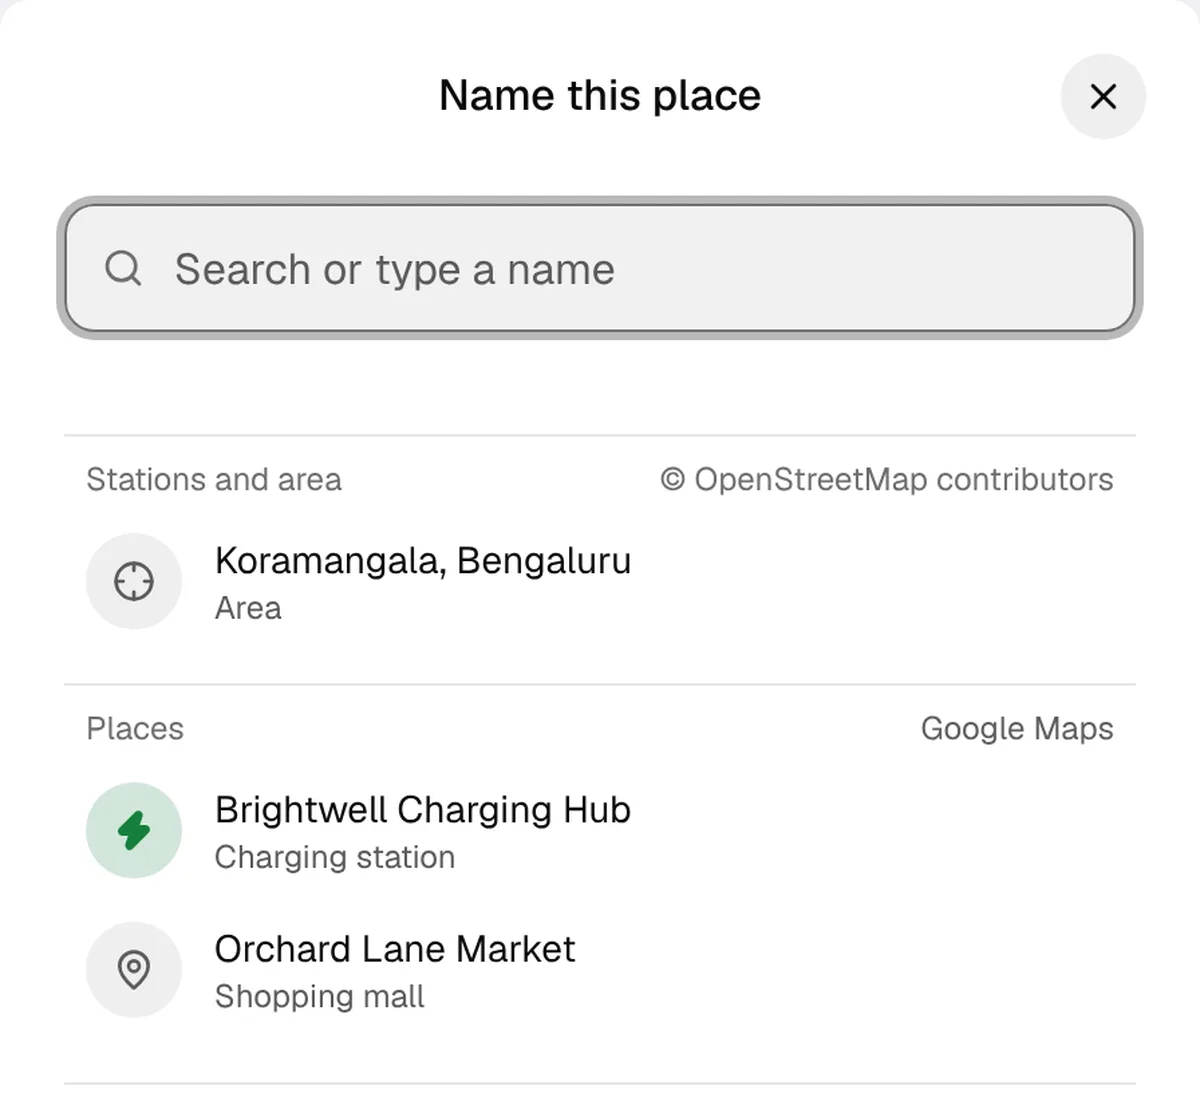
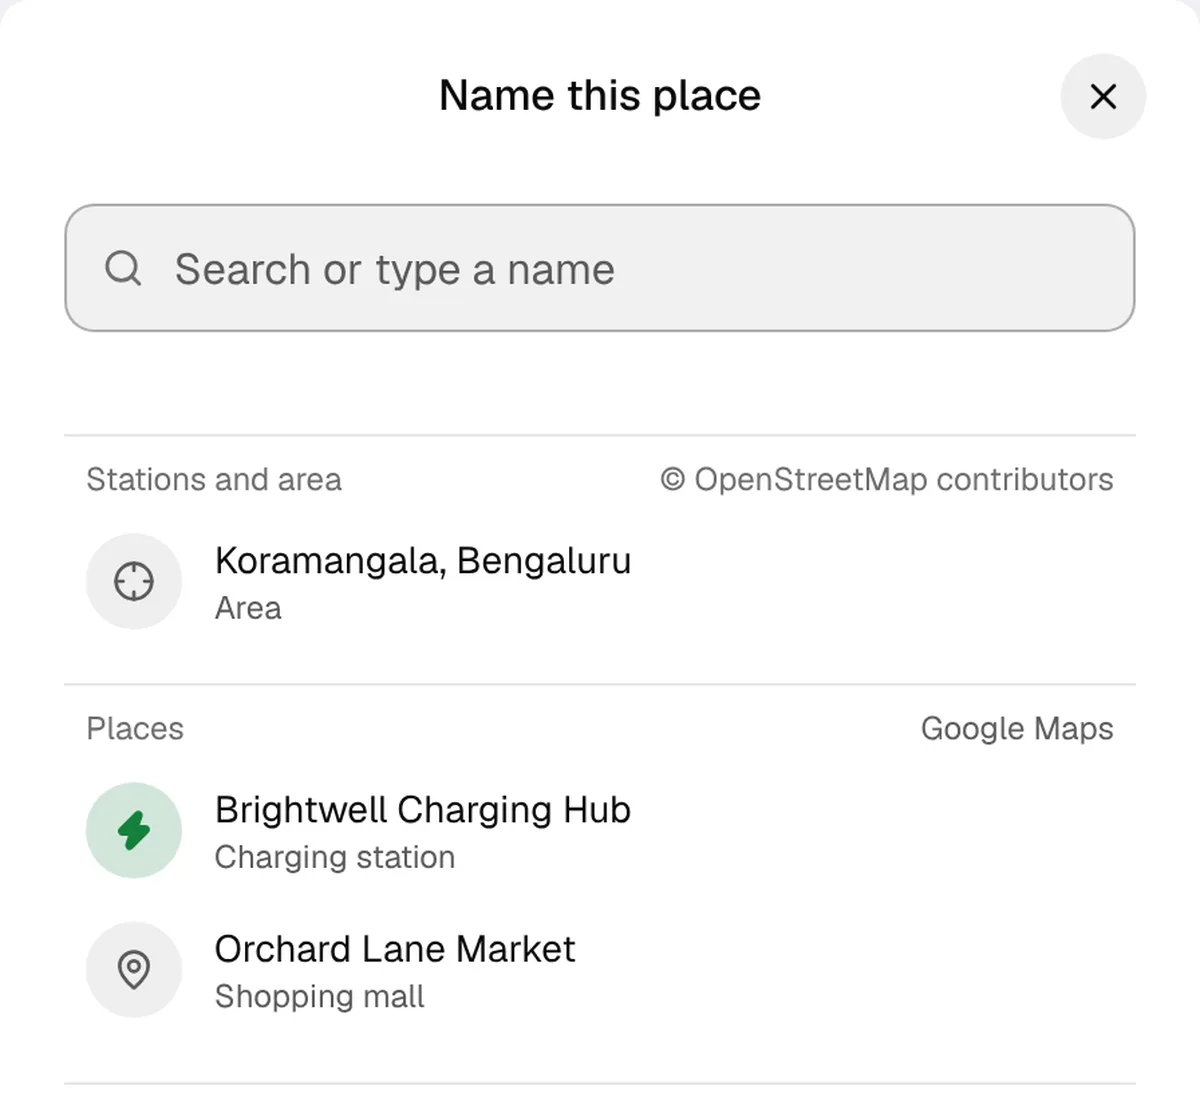
Name this place: fixes from code review
- One CHARGING_DETAIL constant for the "Charging station" detail, written by
  parseNearby, the OpenStreetMap stations and the demo, and read by
  placeIcon, so a reworded detail can't quietly drop the bolt.
- Option.icon is null for the typed name instead of a "typed" value that
  repeated kind.
- What's new: a shorter title, "Icons when naming a place", and a
  screenshot without the focus ring.

Claude-Session: https://claude.ai/code/session_01Y6B7tRxudNmpPkZpFcx5eM

Changed region(s): [[0.0308, 0.1533, 0.9558, 0.3066]]

diff --git a/components/name-place.tsx b/components/name-place.tsx
@@ -19,12 +19,13 @@ import { haptic } from "@/components/haptic";
 const DEBOUNCE_MS = 300;
 const MAX_GOOGLE = 8;
 
-type Option = { key: string; kind: "typed" | "osm" | "google"; name: string; detail: string | null; icon: PlaceIcon | "typed"; placeId?: string };
+type Option = { key: string; kind: "typed" | "osm" | "google"; name: string; detail: string | null; icon: PlaceIcon | null; placeId?: string };
 
 // The round icon at the start of each choice, so a charger, the area and a typed name tell apart at a glance:
 // the bolt on green for a charger, a target for the area, a pencil for the typed name, a pin for the rest.
-function OptionIcon({ icon }: { icon: Option["icon"] }) {
-  const Icon = { charging: Zap, area: Crosshair, place: MapPin, typed: Pencil }[icon];
+// `icon` null is the typed name.
+function OptionIcon({ icon }: { icon: PlaceIcon | null }) {
+  const Icon = icon ? { charging: Zap, area: Crosshair, place: MapPin }[icon] : Pencil;
   return (
     <span aria-hidden="true" className={cn("flex size-9 shrink-0 items-center justify-center rounded-full", icon === "charging" ? "bg-charge/20 text-positive" : "bg-foreground/[0.07] text-muted-foreground dark:bg-white/10")}>
       <Icon className={cn("size-4", icon === "charging" && "fill-current")} />
@@ -123,7 +124,7 @@ export function NamePlace({ target, compact = false, className }: { target: Name
     seen.add(s.placeId);
     google.push({ key: `google:${s.placeId}`, kind: "google", name: s.name, detail: s.detail, icon: placeIcon(s), placeId: s.placeId });
   }
-  const typed: Option[] = q !== "" && !osm.some((o) => o.name.toLowerCase() === q.toLowerCase()) ? [{ key: "typed", kind: "typed", name: q, detail: null, icon: "typed" }] : [];
+  const typed: Option[] = q !== "" && !osm.some((o) => o.name.toLowerCase() === q.toLowerCase()) ? [{ key: "typed", kind: "typed", name: q, detail: null, icon: null }] : [];
   const options = [...typed, ...osm, ...google];
   const searching = searchable && remote?.q !== q;
   const unavailable = searchable && remote?.q === q && remote.unavailable;

diff --git a/lib/server/place-suggestions.ts b/lib/server/place-suggestions.ts
@@ -1,7 +1,7 @@
 import "server-only";
 import type { GoogleSku } from "@/lib/costs";
 import { DEMO } from "@/lib/demo";
-import { matches, mergeSuggestions, parseAutocomplete, parseNearby, type Suggestion } from "@/lib/place-suggestions";
+import { CHARGING_DETAIL, matches, mergeSuggestions, parseAutocomplete, parseNearby, type Suggestion } from "@/lib/place-suggestions";
 import { stationsNear } from "@/lib/stations";
 import type { LatLng } from "@/lib/user-places";
 import { countGoogleCall } from "./data/system";
@@ -50,7 +50,7 @@ async function nearby(key: string, p: LatLng): Promise<Suggestion[]> {
 
 // Demo places: made up, with the demo's place IDs (DEMO_GOOGLE_NAMES), and no call leaves the server.
 const DEMO_HINTS: Suggestion[] = [
-  { name: "Brightwell Charging Hub", detail: "Charging station", source: "google", placeId: "DemoPlace_Brightwell01" },
+  { name: "Brightwell Charging Hub", detail: CHARGING_DETAIL, source: "google", placeId: "DemoPlace_Brightwell01" },
   { name: "Orchard Lane Market", detail: "Shopping mall", source: "google", placeId: "DemoPlace_OrchardLane01" },
 ];
 const DEMO_SEARCH: Suggestion[] = [
@@ -61,7 +61,7 @@ const DEMO_SEARCH: Suggestion[] = [
 ];
 
 export async function suggestionsAt(p: LatLng): Promise<{ hints: Suggestion[]; picks: Suggestion[] }> {
-  const stations = stationsNear(p.lat, p.lng).map((name): Suggestion => ({ name, detail: "Charging station", source: "station" }));
+  const stations = stationsNear(p.lat, p.lng).map((name): Suggestion => ({ name, detail: CHARGING_DETAIL, source: "station" }));
   const area = await placeNames([p]).catch(() => new Map<string, string>());
   const areaName = area.get(placeKey(p));
   const picks = mergeSuggestions([[...stations, ...(areaName ? [{ name: areaName, detail: "Area", source: "area" } satisfies Suggestion] : [])]], 4);

diff --git a/lib/place-suggestions.ts b/lib/place-suggestions.ts
@@ -18,6 +18,9 @@ const text = (v: unknown): string | null => (typeof v === "string" && v.trim() ?
 const isRecord = (v: unknown): v is Record<string, unknown> => typeof v === "object" && v !== null && !Array.isArray(v);
 
 const CHARGING = "electric_vehicle_charging_station";
+// The detail under a charger, wherever it comes from. placeIcon reads it to give chargers the bolt, so every
+// source writes this one constant.
+export const CHARGING_DETAIL = "Charging station";
 
 // "shopping_mall" reads "Shopping mall".
 export function typeWords(type: unknown): string | null {
@@ -39,7 +42,7 @@ export function parseNearby(body: unknown): Suggestion[] {
     const id = text(p.id);
     if (!name || !id) continue;
     const charging = p.primaryType === CHARGING || (Array.isArray(p.types) && p.types.includes(CHARGING));
-    out.push({ name, detail: charging ? "Charging station" : typeWords(p.primaryType), source: "google", placeId: id, charging });
+    out.push({ name, detail: charging ? CHARGING_DETAIL : typeWords(p.primaryType), source: "google", placeId: id, charging });
   }
   return [...out.filter((p) => p.charging), ...out.filter((p) => !p.charging)].map(({ charging: _, ...s }) => s);
 }
@@ -49,7 +52,7 @@ export function parseNearby(body: unknown): Suggestion[] {
 // address, so it is a place, whatever its name says.
 export type PlaceIcon = "charging" | "area" | "place";
 export function placeIcon(s: Suggestion): PlaceIcon {
-  if (s.source === "station" || (s.source === "google" && s.detail === "Charging station")) return "charging";
+  if (s.source === "station" || (s.source === "google" && s.detail === CHARGING_DETAIL)) return "charging";
   return s.source === "area" ? "area" : "place";
 }
 

diff --git a/lib/whats-new.ts b/lib/whats-new.ts
@@ -38,7 +38,7 @@ export const WHATS_NEW: Entry[] = [
   {
     id: "2026-11-02-name-place-icons",
     date: "2026-11-02",
-    title: "Chargers stand out when you name a place",
+    title: "Icons when naming a place",
     text: "When you name a place, each choice now has an icon. Chargers have a green bolt, the area has a target and other places have a pin.",
     version: "0.2",
     image: { src: "/whats-new/name-place-icons.webp", alt: "Name this place, with a green bolt beside Brightwell Charging Hub, a target beside the area and a pin beside Orchard Lane Market.", width: 1200, height: 1109 },
